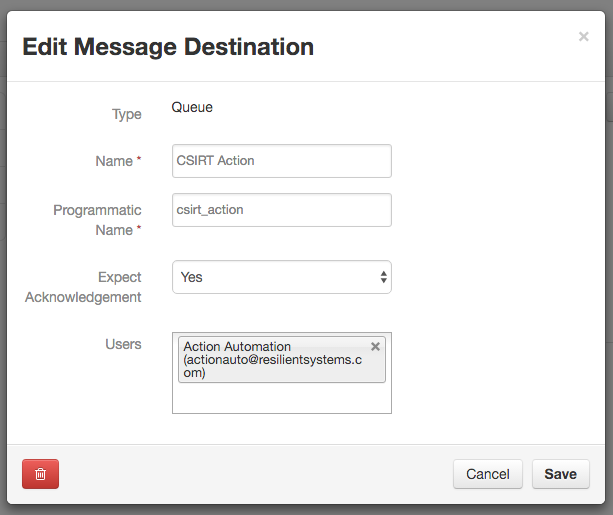
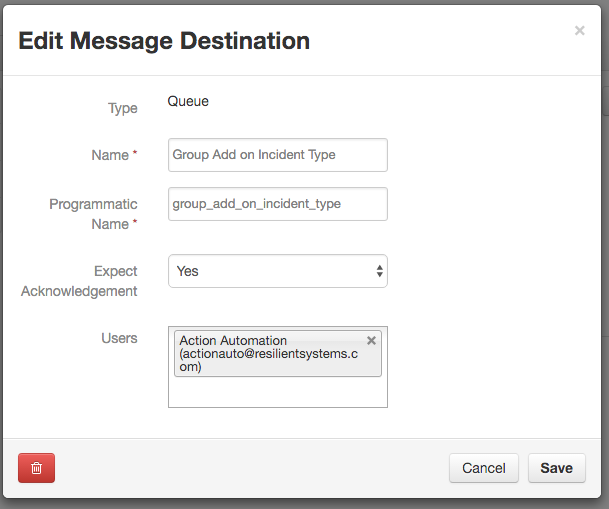
update of readme and images for documentation

diff --git a/python/examples/ActionExample/groupadd/README.md b/python/examples/ActionExample/groupadd/README.md
@@ -1,11 +1,11 @@
-# Action handler for looking adding an incident type based on a custom field being changed.
-In this case a Boolean field *CSIRT Action Required* is configured with an automatic action to add the 
-incident type *CSIRT* when set to Yes.
-
+# Action handler for adding a group to an incident based on the addition of a specific incident type.
+In this case an incident type of *CSIRT* is added, and a group *CSIRT* is created.  When the incident type is
+added to a case, the action will check if the group is already a member (or owner) of the case and add the group 
+if it is not.  
 
 ## Execution
 ```
-python csirtaction.py
+python groupadd.py
 ```
 OR
 ```
@@ -43,13 +43,14 @@ The destination queue for the action.
 
 ### actiondata
 Configuration information for the action.  
-+ incidenttype = text in the Name of the incident type
++ group= name of the group to add
++ incidenttype= incident type to trigger the addition of membership.
 
 ## Resilient Configuration
 The default configuration expects an action queue named *csirt_action*, and an automatic action for an incident named 
 *csirtaction*.  The automatic action should have have a condition of the Boolean field *csirt_action_required* being changed to Yes.
-### Custom Field definition
-![Custom field definition](Documents/fielddefinition.png)
+### Custom incident type definition
+![Incident Type definition](Documents/incidenttype.png)
 ### Messaged Destination 
 ![message destination](Documents/messagedestination.png)
 ### Automatic Action
